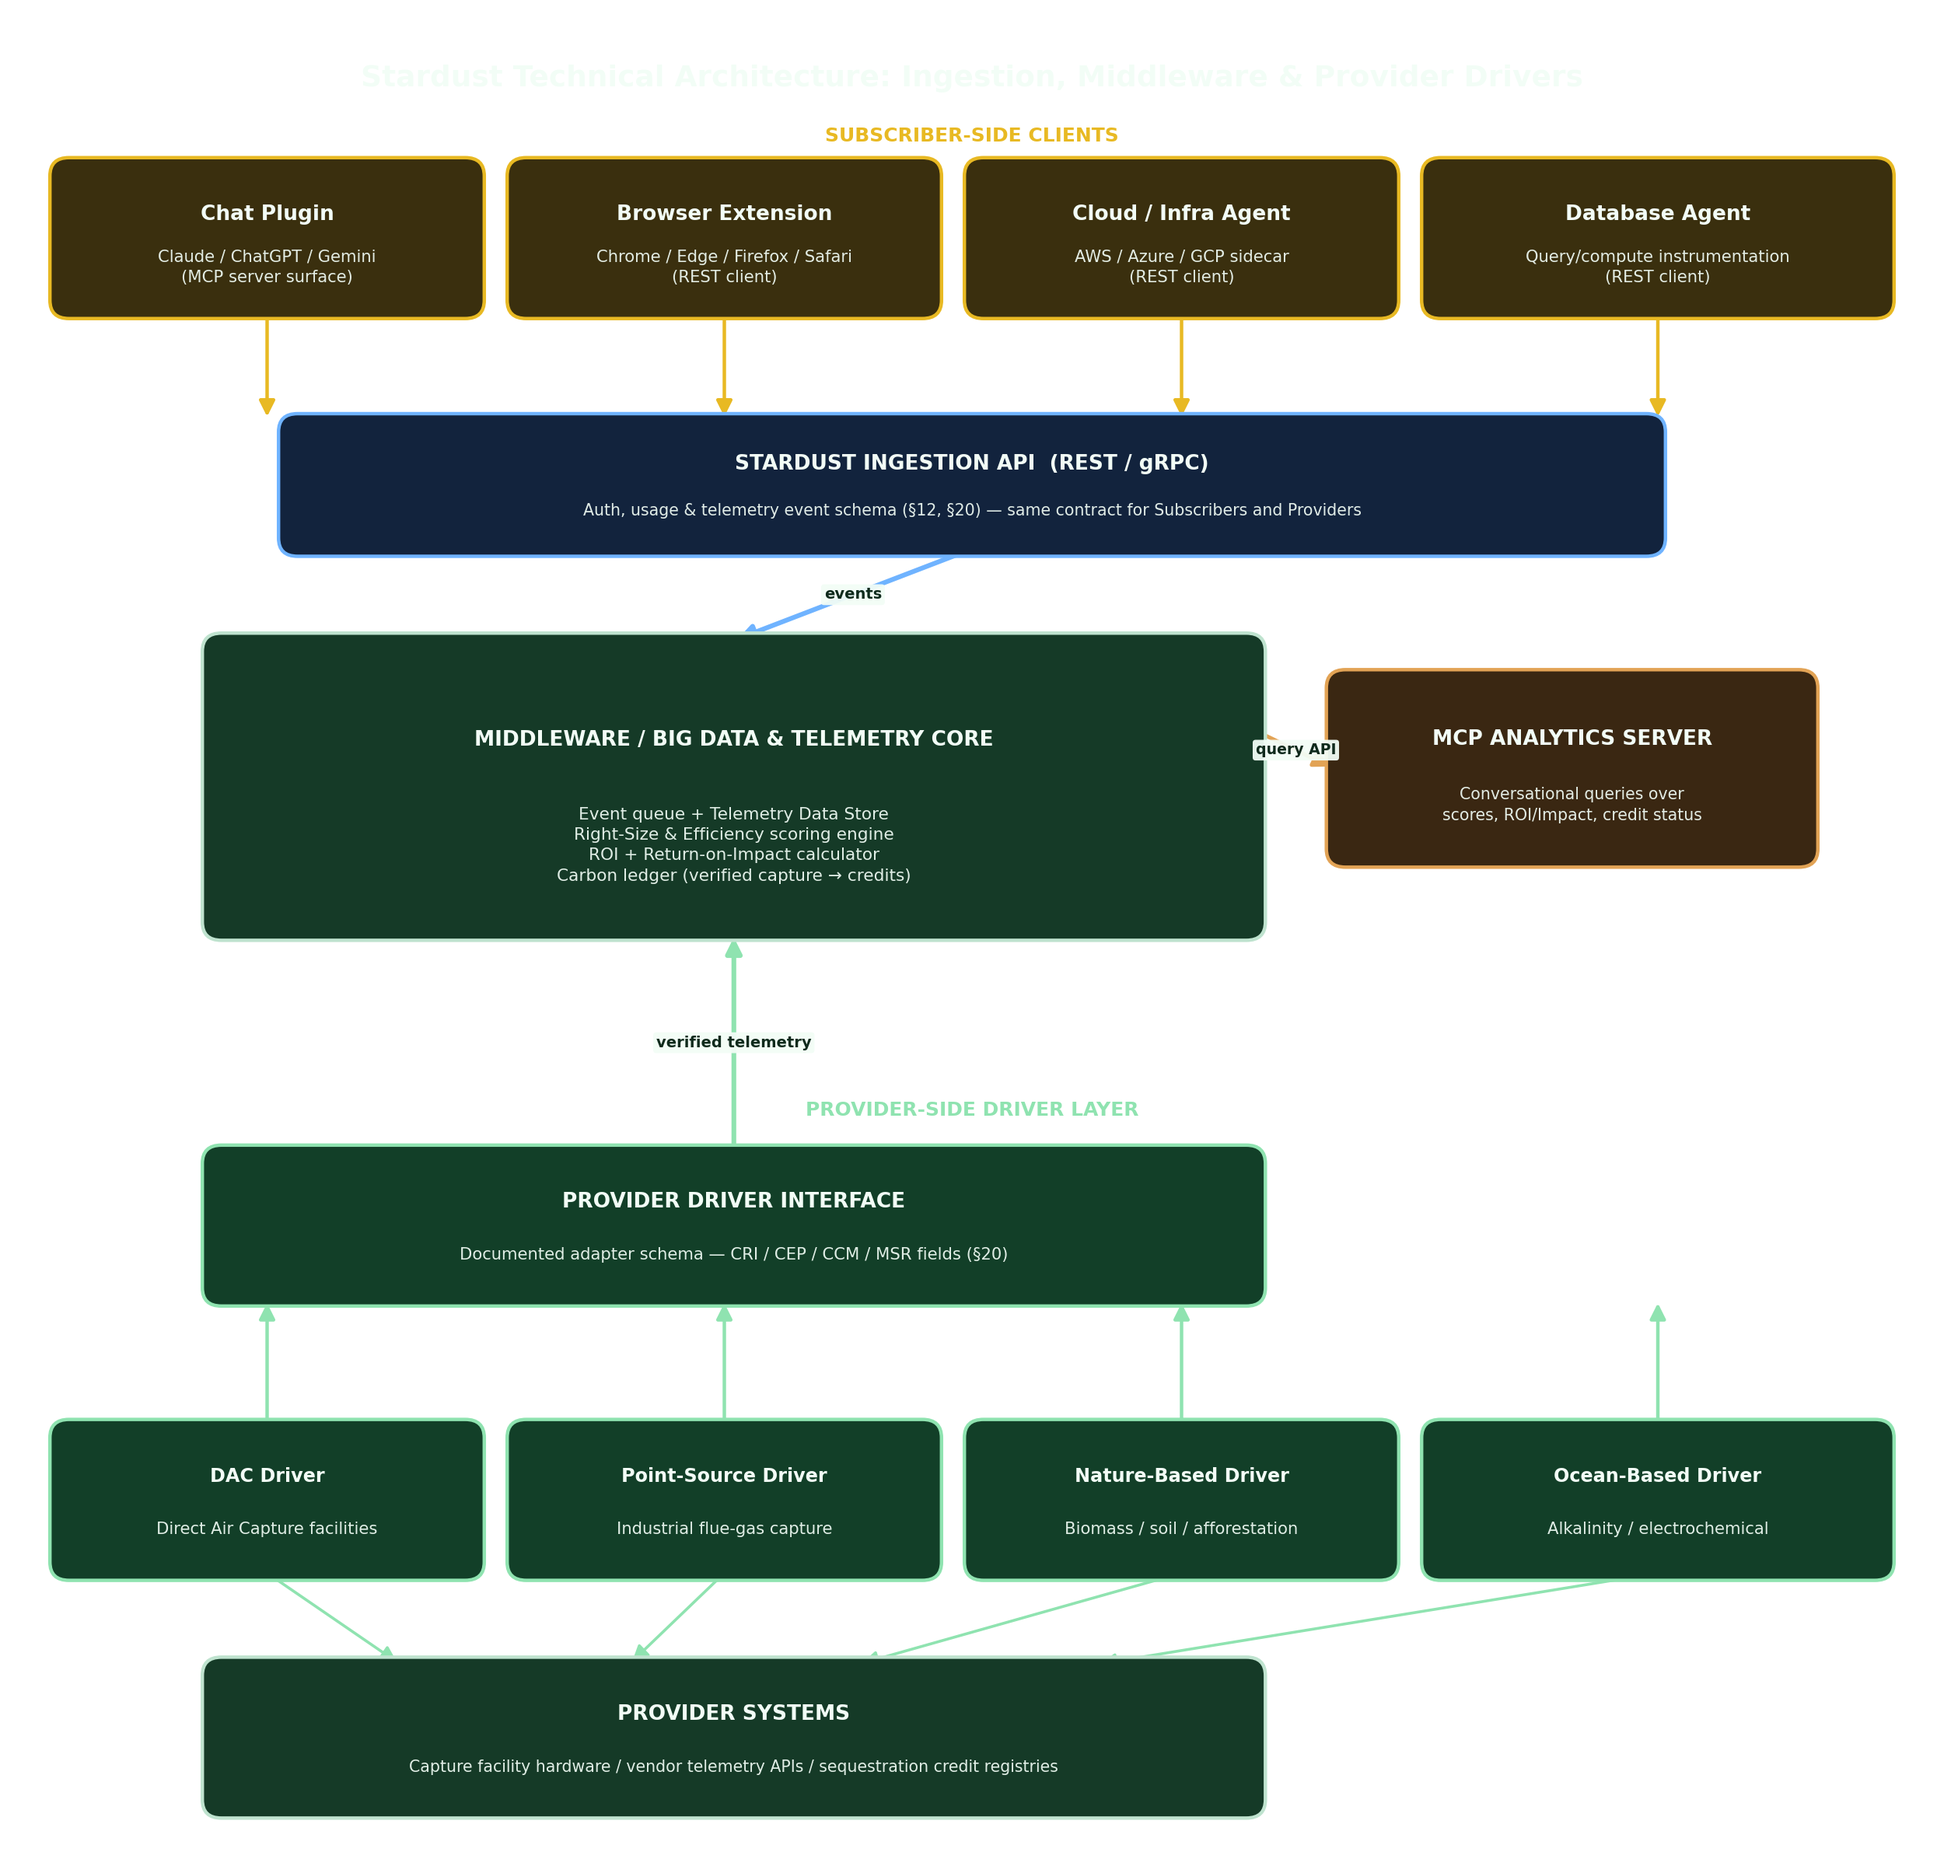
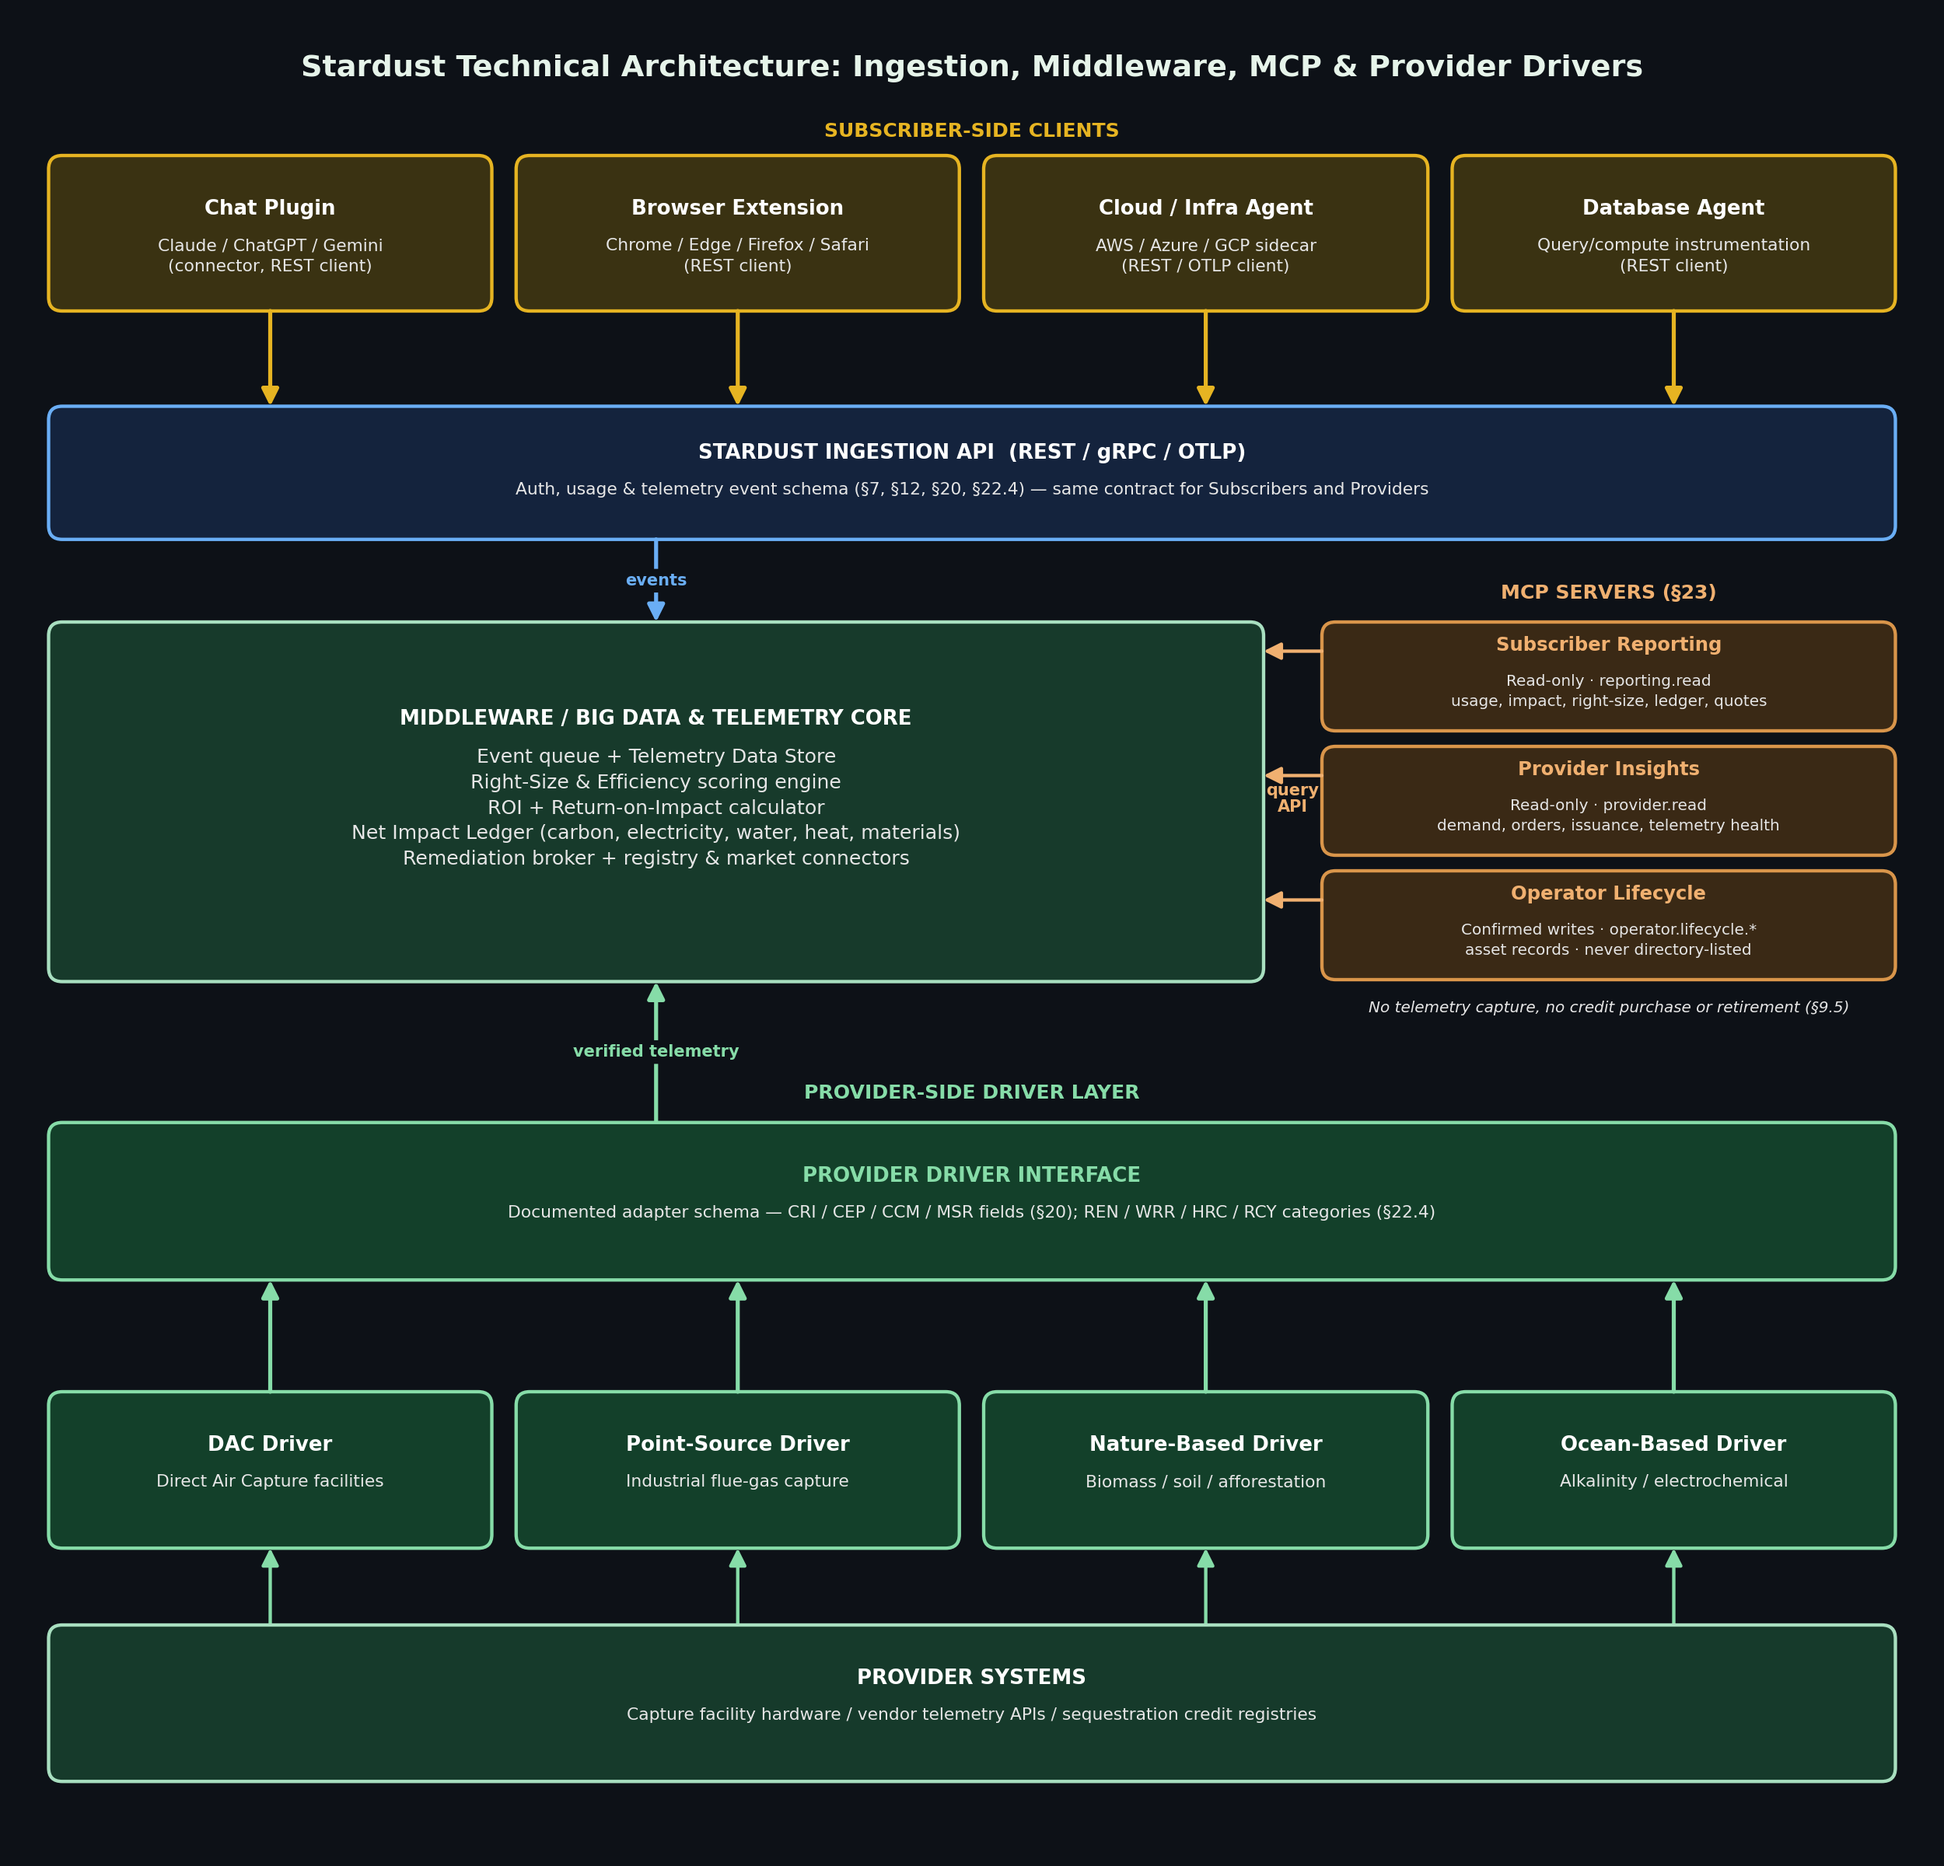
Architecture diagram: match spec v1.4
Show the three §23 MCP servers with their scopes, and the §9.5 limit
(no telemetry capture, no credit purchase or retirement). Replace the
carbon ledger with the five-dimension Net Impact Ledger, add the §22.4
provider categories, and fix arrows that missed their boxes. The dark
variant now has a solid background.

diff --git a/README.md b/README.md
@@ -8,7 +8,7 @@ A project of [AI for Ecology](https://aifore.org). See the [spec (v1.2) and summ
 
 <picture>
   <source media="(prefers-color-scheme: dark)" srcset="stardust-technical-architecture-dark.png">
-  <img src="stardust-technical-architecture.png" alt="Stardust technical architecture: subscriber-side clients (chat plugin, browser extension, cloud and infra agent, database agent) send events through the ingestion API (REST and gRPC) to the middleware and telemetry core; an MCP analytics server queries the core; provider drivers (direct air capture, point-source, nature-based, ocean-based) send verified telemetry through the provider driver interface.">
+  <img src="stardust-technical-architecture.png" alt="Stardust technical architecture: subscriber-side clients (chat plugin, browser extension, cloud and infra agent, database agent) send events through the ingestion API (REST and gRPC) to the middleware and telemetry core, which holds the Net Impact Ledger; three MCP servers (subscriber reporting, provider insights, operator lifecycle) query the core; provider drivers (direct air capture, point-source, nature-based, ocean-based) send verified telemetry through the provider driver interface.">
 </picture>
 
 ```
